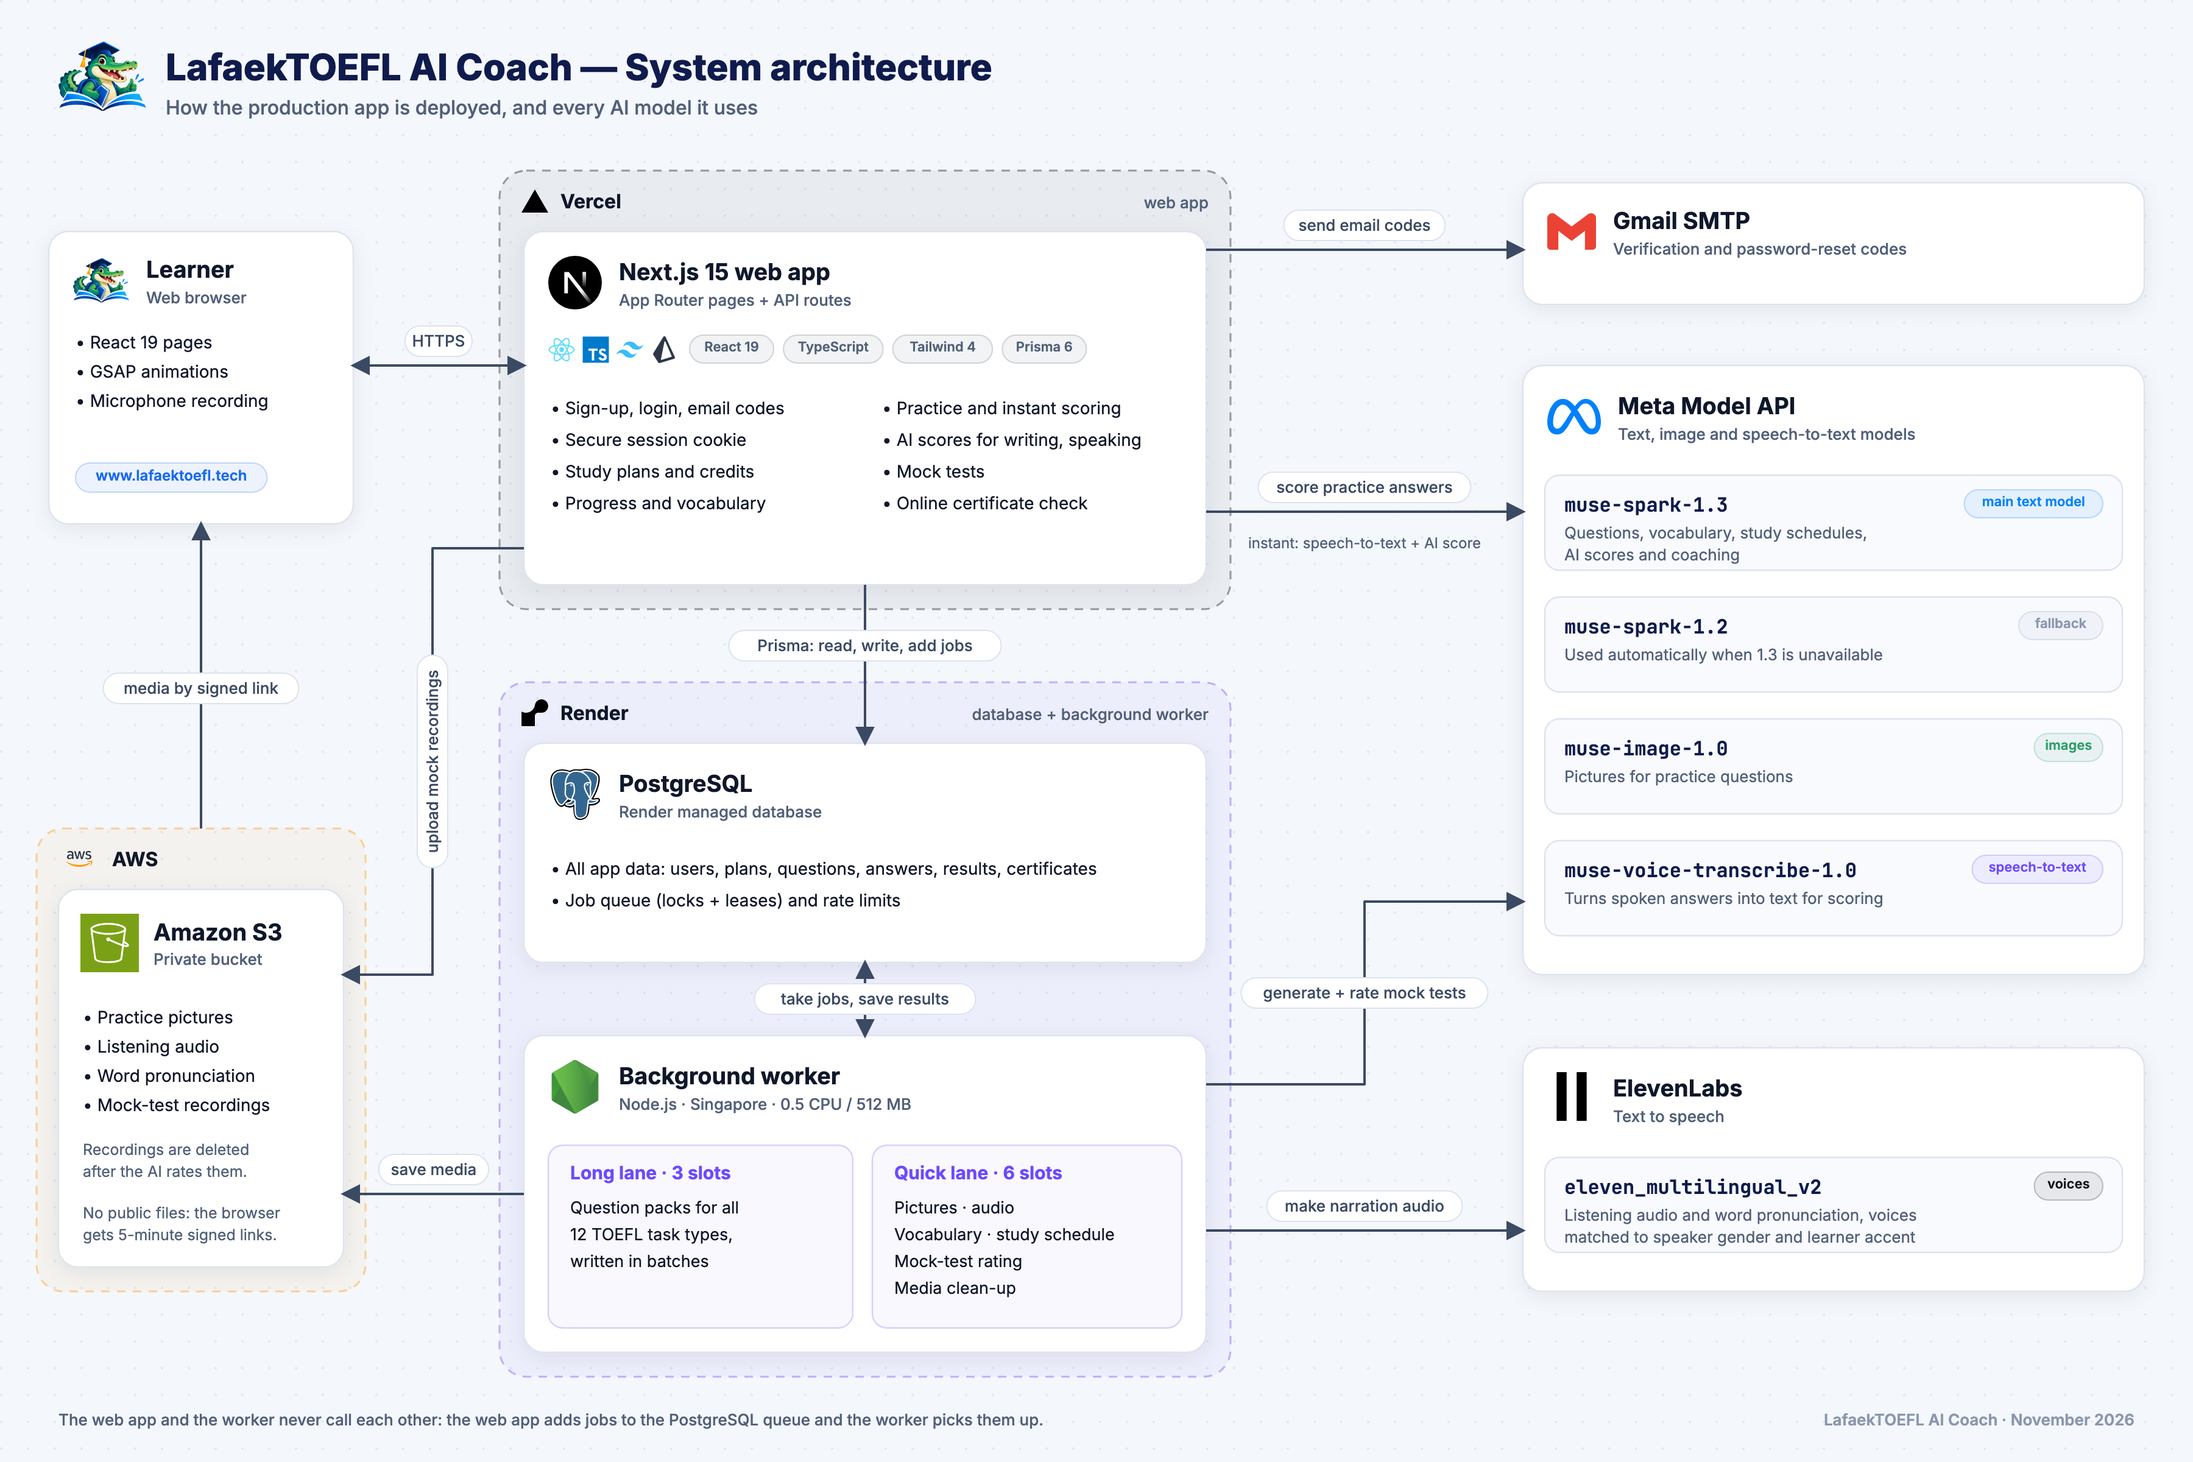
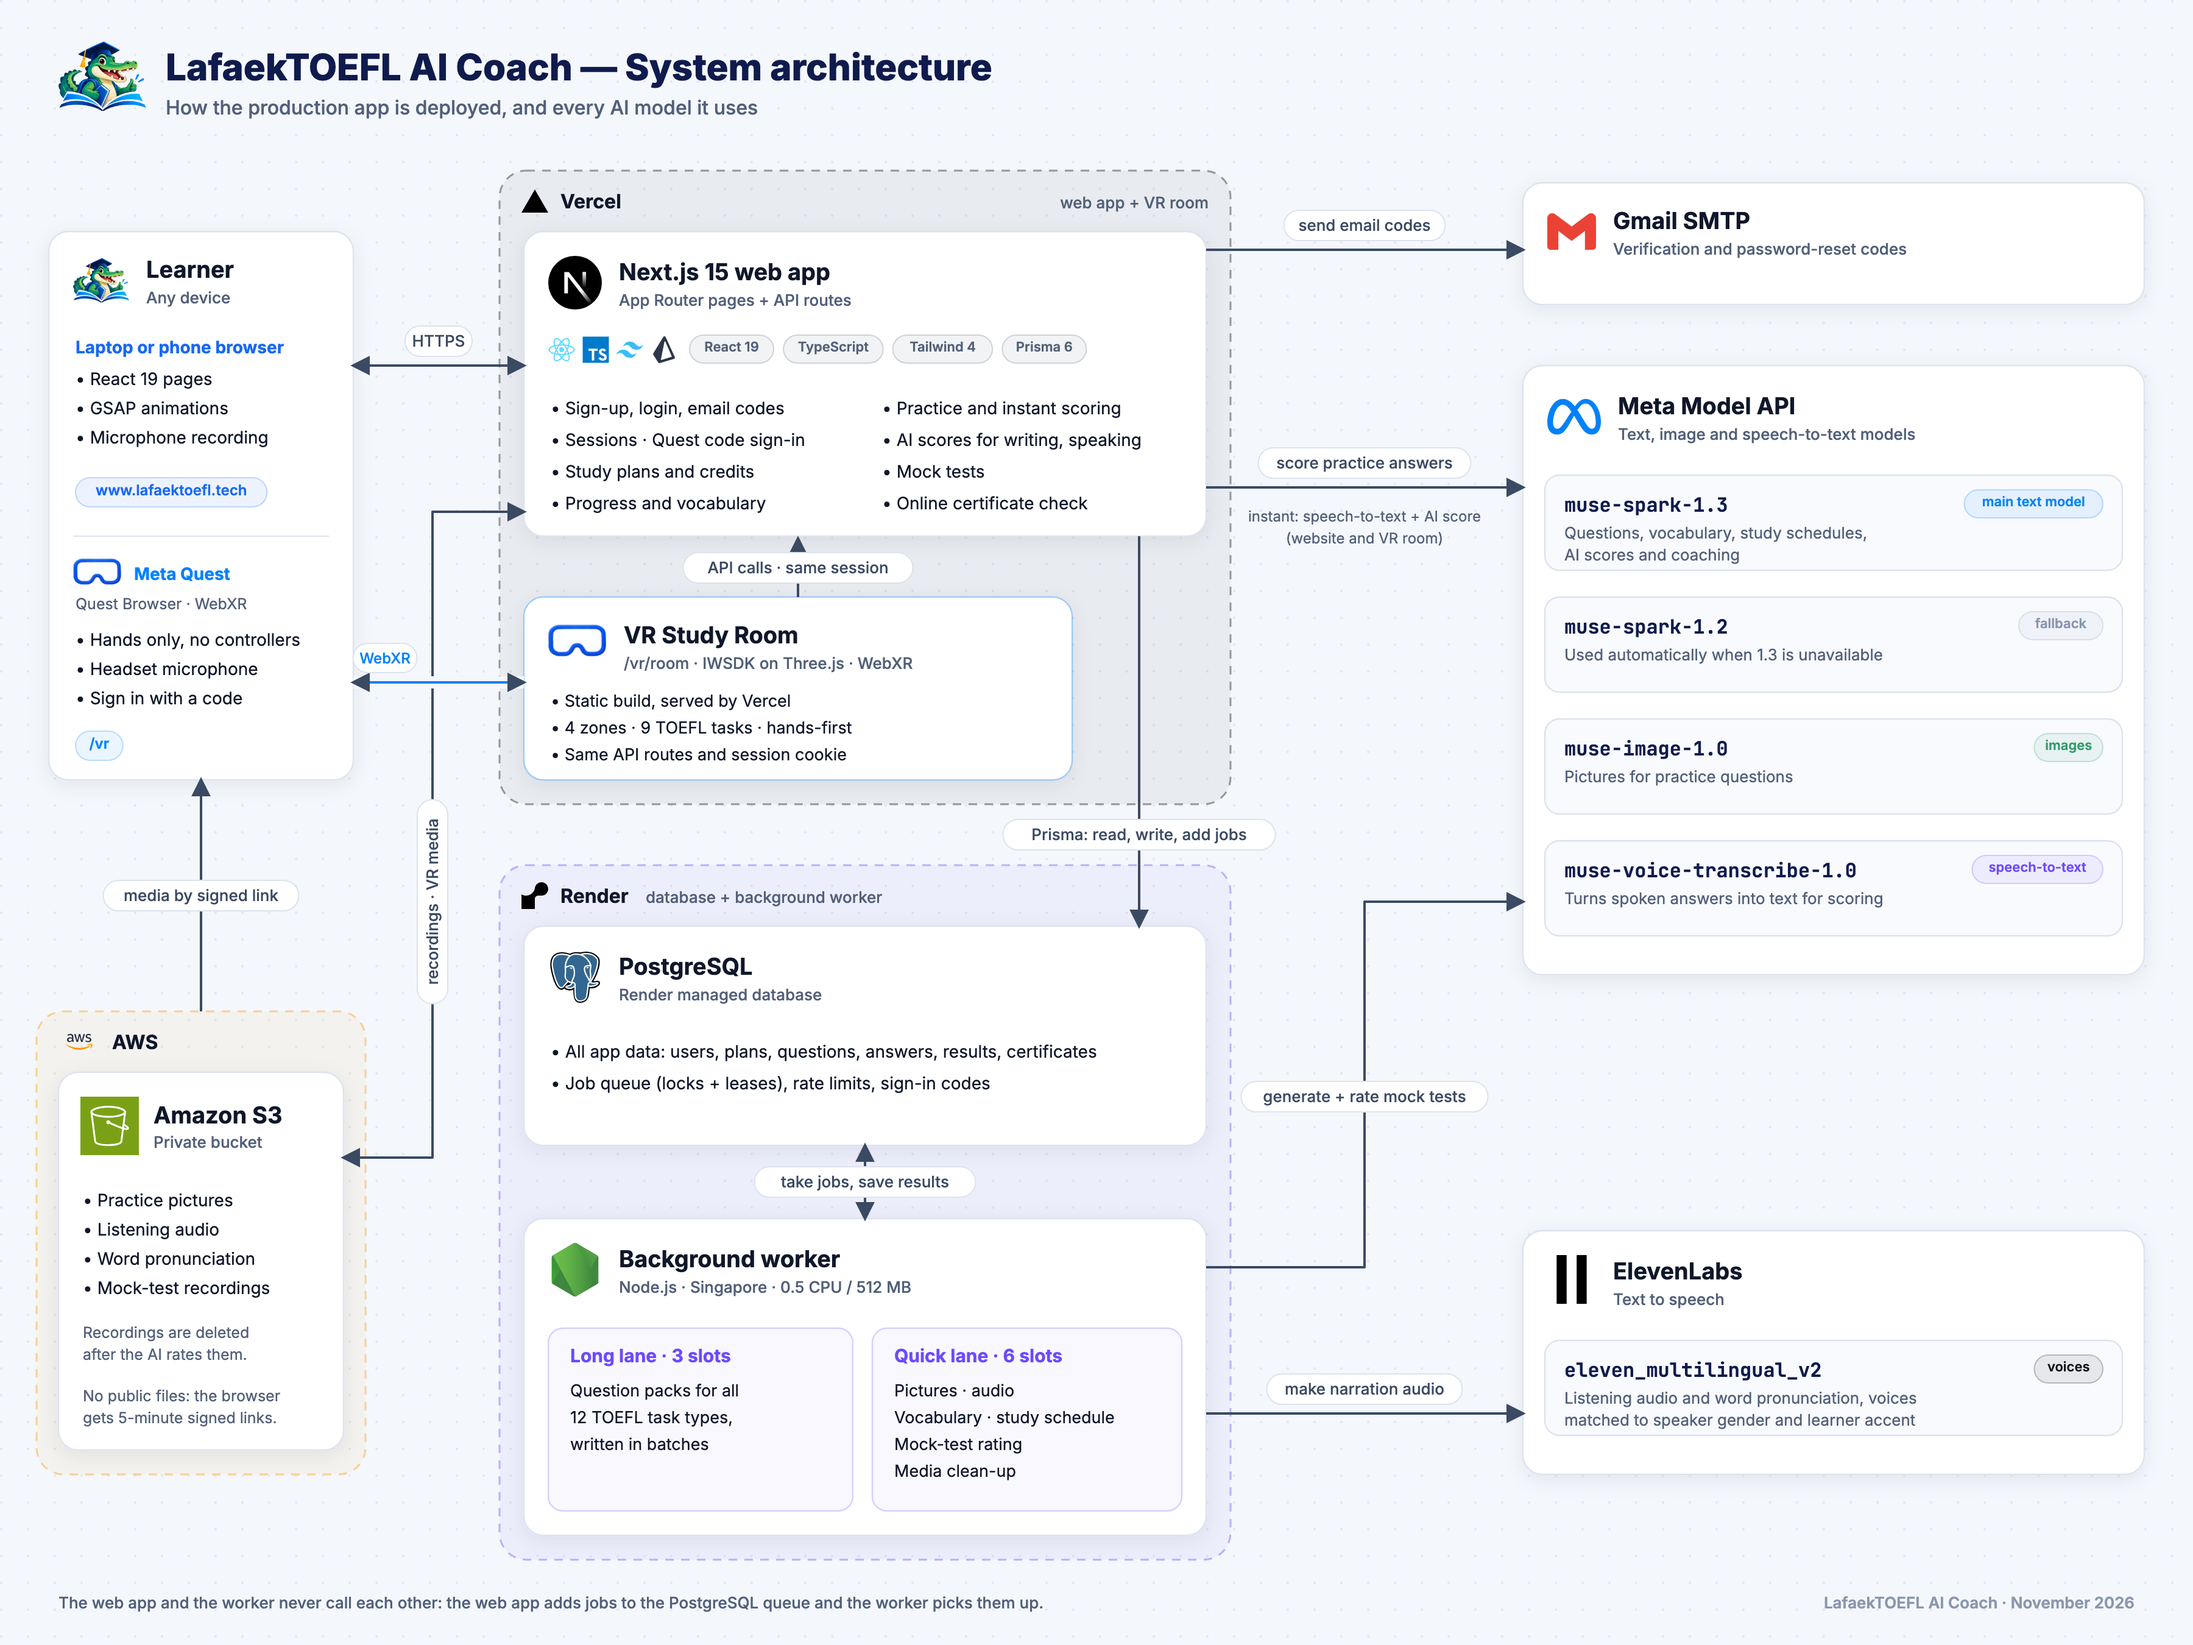
Diagrams: VR Study Room and Quest sign-in
- 01 Architecture: Meta Quest as a learner device, the VR Study Room on
  Vercel, and VR media streamed through the web app.
- 04 Auth: note on the 3-device limit and code sign-in.
- 05 Database: device_links (21 tables).
- New 06 VR Study Room: getting in, 4 zones / 9 tasks, hands-only input, and
  the API route and AI model behind each activity.
- New 07 Sign in on Quest: show code, enter on Quest, approve, signed in.
- README: sections for both new diagrams and small updates to 1, 4 and 5.

diff --git a/docs/diagram/README.md b/docs/diagram/README.md
@@ -2,13 +2,17 @@
 
 LafaekTOEFL AI Coach is a TOEFL iBT (2026 format) practice app. A learner writes a study plan, and AI builds a personal set of practice questions for all 12 TOEFL task types, with pictures, listening audio, vocabulary and a study schedule. The learner practises, gets instant AI scores for writing and speaking, and can take a full timed mock test. A score of 4.0 or higher earns a certificate that anyone can check online.
 
-The five diagrams below explain how it works, from the big picture down to the database.
+On a **Meta Quest**, the same learner can step into the **VR Study Room**: a hands-first virtual classroom with 9 of the TOEFL tasks, using their own study-plan questions and the same scoring.
+
+The seven diagrams below explain how it works, from the big picture down to the database, then the VR room and signing in on the headset.
 
 1. [System architecture](#1-system-architecture)
 2. [Content generation](#2-content-generation--from-study-plan-to-practice)
 3. [Mock test](#3-mock-test--taking-scoring-and-certificates)
 4. [Sign-up, login and sessions](#4-sign-up-login-and-sessions)
 5. [Database](#5-database)
+6. [VR Study Room on Meta Quest](#6-vr-study-room-on-meta-quest)
+7. [Sign in on Quest with a code](#7-sign-in-on-quest-with-a-code)
 
 ---
 
@@ -21,6 +25,7 @@ The app runs on four services, each doing what it is best at.
 | Service                                        | Where                               | What it does                                                                                                              |
 | ---------------------------------------------- | ----------------------------------- | ------------------------------------------------------------------------------------------------------------------------- |
 | **Web app** (Next.js 15, React 19, TypeScript) | Vercel                              | All pages and API routes: sign-up and login, study plans, practice, instant scoring, mock tests, certificate checks       |
+| **VR Study Room** (IWSDK on Three.js, WebXR)   | Vercel, at `/vr/room`               | A static build served next to the web app. It runs in the Meta Quest Browser and calls the same API routes                |
 | **Background worker** (Node.js)                | Render, Singapore, 0.5 CPU / 512 MB | Long AI work: writing questions, making pictures and audio, choosing vocabulary, planning the schedule, rating mock tests |
 | **Database** (PostgreSQL, through Prisma)      | Render                              | All app data, plus the job queue and the rate limits                                                                      |
 | **File storage** (Amazon S3)                   | AWS                                 | Pictures, listening audio, word pronunciation and mock-test recordings in a private bucket                                |
@@ -48,7 +53,7 @@ There are two exceptions where the web app calls the AI directly, because the le
 - Practice answers are scored instantly. Speech-to-text and the AI score take about 10–14 seconds, well within Vercel's limit.
 - Verification emails are sent straight away.
 
-**Media is never public.** Files sit in a private S3 bucket. The browser gets a signed link that works for 5 minutes, and only after the server has checked that the file belongs to that learner.
+**Media is never public.** Files sit in a private S3 bucket. The browser gets a signed link that works for 5 minutes, and only after the server has checked that the file belongs to that learner. The VR room loads its pictures and audio through the web app instead (`/api/media/[id]/file`, same ownership check), because WebGL textures and Web Audio cannot read cross-origin S3 links.
 
 ---
 
@@ -145,6 +150,12 @@ A mock test is a full, timed test made from the learner's own practice items and
 - Requests that change data must also come from our own site (same-origin check).
 - Forgot password uses the same email-code flow, and logging out revokes the session.
 
+**Signed-in devices:**
+
+- An account can be signed in on **3 devices** at once. A 4th sign-in signs out the device used longest ago, so a new sign-in always works and nobody gets locked out.
+- Settings lists each device (for example "Meta Quest browser" or "Chrome on Mac") with when it was last active, a Sign out button for each, and Sign out all other devices.
+- Signing in on a headset with a code instead of a password is shown in [diagram 7](#7-sign-in-on-quest-with-a-code).
+
 Rate limits live in PostgreSQL, so they apply across every Vercel instance. Secrets (API keys, database URL, SMTP password, AWS keys) stay on the server and are never sent to the browser.
 
 ---
@@ -153,11 +164,11 @@ Rate limits live in PostgreSQL, so they apply across every Vercel instance. Secr
 
 ![Database](05-database.png)
 
-PostgreSQL on Render holds 20 tables, managed with Prisma. They fall into six groups:
+PostgreSQL on Render holds 21 tables, managed with Prisma. They fall into six groups:
 
 | Group                   | Tables                                                                           | Purpose                                                                                                   |
 | ----------------------- | -------------------------------------------------------------------------------- | --------------------------------------------------------------------------------------------------------- |
-| Account & access        | `users`, `sessions`, `auth_otps`, `user_preferences`, `credit_grants`            | Accounts, hashed passwords, hashed sessions and email codes, settings, credits (Starter plus Boost Packs) |
+| Account & access        | `users`, `sessions`, `auth_otps`, `user_preferences`, `credit_grants`, `device_links` | Accounts, hashed passwords, hashed sessions and email codes, settings, credits (Starter plus Boost Packs), one-time codes for signing in another device |
 | Study plan & generation | `study_plans`, `generation_batches`, `generation_jobs`                           | The learner's plan and the **job queue** the worker reads                                                 |
 | Practice content        | `practice_items`, `media_assets`, `vocabulary_words`                             | Each learner's own questions, their pictures and audio (stored as S3 keys), and vocabulary                |
 | Learning progress       | `practice_attempts`, `practice_drafts`, `practice_resets`, `vocabulary_progress` | Answers, scores and AI feedback, unsent drafts, per-task resets, known and review words                   |
@@ -170,5 +181,67 @@ The tables connect like this:
 - Deleting an account deletes the learner's rows. A `delete_user_assets` job removes their files from S3. `usage_events` keep the cost history without the user.
 - `generation_jobs` is both a record and the queue. The worker claims rows under a lock and holds a lease (`lease_owner`, `lease_expires_at`) while it works.
 - Media files are never stored in the database, only their S3 object key.
+- `device_links` rows live for minutes and hold only hashes; the worker deletes them a day after they expire.
 
 ---
+
+## 6. VR Study Room on Meta Quest
+
+![VR Study Room on Meta Quest](06-vr-room.png)
+
+The VR Study Room is a seated virtual classroom inspired by Timor-Leste, with views of Dili through its windows. It is built with **IWSDK** (Meta's Immersive Web SDK, on Three.js) and runs in the **Meta Quest Browser** with WebXR, so there is nothing to install.
+
+**Getting in (panel 1):**
+
+1. The learner opens `lafaektoefl.tech/vr` in the Quest Browser. The page checks that the browser can start immersive VR.
+2. If they are signed out, they sign in with a code instead of typing an email and password on the headset (see [diagram 7](#7-sign-in-on-quest-with-a-code)).
+3. The room needs a study plan, because it uses the learner's own practice questions.
+4. `/vr/room` is a static build served by Vercel next to the web app. It starts a WebXR session with hand tracking. A short tutorial shows how to use your hands, and Recenter fits the desk to a seated learner.
+
+**Inside the room (panel 2):** 4 zones hold 9 of the 12 TOEFL tasks:
+
+| Zone      | Activities                                                                                        |
+| --------- | ------------------------------------------------------------------------------------------------- |
+| Reading   | Read in Daily Life, Read an Academic Passage                                                      |
+| Listening | Listen and Choose a Response, Listen to a Conversation, Listen to an Announcement, Listen to an Academic Talk |
+| Speaking  | Listen and Repeat, Take an Interview                                                              |
+| Writing   | Build a Sentence, with 3D word tiles                                                              |
+
+Write an Email and Write for an Academic Discussion are typing tasks, so they stay on the website. A dock just above the desk has Back, How to use and Recenter (Exit to 2D in the hub). Behind the learner, a progress wall shows their bands, accuracy, study days, mock-test band and certificate.
+
+**Hands only, no controllers (panel 3):**
+
+- **Point and pinch:** a ray from the hand picks far cards and answers. Like Quest's own menus, it acts when the fingers part, so sliding off a button cancels it.
+- **Pinch and hold to grab:** pick up a word tile in Build a Sentence, move your hand and let go over a slot. Pinching a tile once also sends it to the next free slot.
+- **Touch:** the dock floats within arm's reach, so its buttons can be pressed with a finger.
+- Buttons that play media stay off until their picture or audio has loaded. Controllers also work, but nothing needs them.
+
+**What each activity calls (bottom):** the room uses the **same API routes and session cookie as the website**, so practice in VR counts in the learner's progress.
+
+- Reading, Build a Sentence and Listening load questions from `/api/practice/{task}/items` and send answers to `/api/practice/items/{id}/submit`, where they are checked and saved.
+- Pictures and audio come from S3 through `/api/media/{id}/file`. In Listening, each voice comes from where that speaker stands in the room (spatial audio).
+- Listen and Repeat and Take an Interview record the headset microphone and turn the recording into 16 kHz WAV in the headset. `/api/practice/items/{id}/speaking` transcribes it with `muse-voice-transcribe-1.0`. For the interview, `/api/practice/items/{id}/feedback` has `muse-spark-1.3` give a band from 1 to 6 with coaching.
+- The progress wall reads `/api/progress` and `/api/mock-test/latest` each time the learner returns to the hub.
+
+The room is built from simple shapes and small textures so it stays at 72 fps or more on Quest. Adding `?fps=1` to the room's URL shows a frame-rate readout for testing.
+
+---
+
+## 7. Sign in on Quest with a code
+
+![Sign in on Quest with a code](07-device-sign-in.png)
+
+Typing an email and password with a laser pointer is slow, so a learner can sign the headset in from a device where they are already signed in:
+
+1. **Show a code (steps 1–3).** On their phone or laptop, the learner opens the VR page and taps **Sign in on Quest**. The server makes an 8-character code such as `K7QM-3XPA`, with a QR code, and stores only an **HMAC** of it. It expires in 5 minutes, and making a new code cancels the old one.
+2. **Enter it on the Quest (steps 4–6).** On the Quest, the learner opens `lafaektoefl.tech/link` and types the code; a phone or tablet can scan the QR code instead. This only **claims** the code: the first device to enter it gets a secret that only it holds, and nothing is signed in yet.
+3. **Approve (steps 7–10).** The phone or laptop checks every 2 seconds and then shows **"Meta Quest browser wants to sign in"** with **Approve** and **Deny**. The learner taps Approve. Deny, or closing the window, cancels it.
+4. **The Quest signs itself in (steps 11–13).** The Quest has been checking every 2 seconds with its secret. Once the code is approved, the server uses it up, creates a normal session (the same cookie as a password sign-in) and opens `/vr`. If this is the account's 4th device, the one used longest ago is signed out.
+
+**Why it is safe:**
+
+- Nothing signs in without the learner's tap on Approve, so a code that someone sees or guesses is useless.
+- A code works once, for one device, for a few minutes, and the database stores only its hash.
+- Guesses are rate limited per IP address.
+- Codes leave out look-alike characters (I, L, O, 0 and 1), so they are easy to read on one screen and type on another.
+
